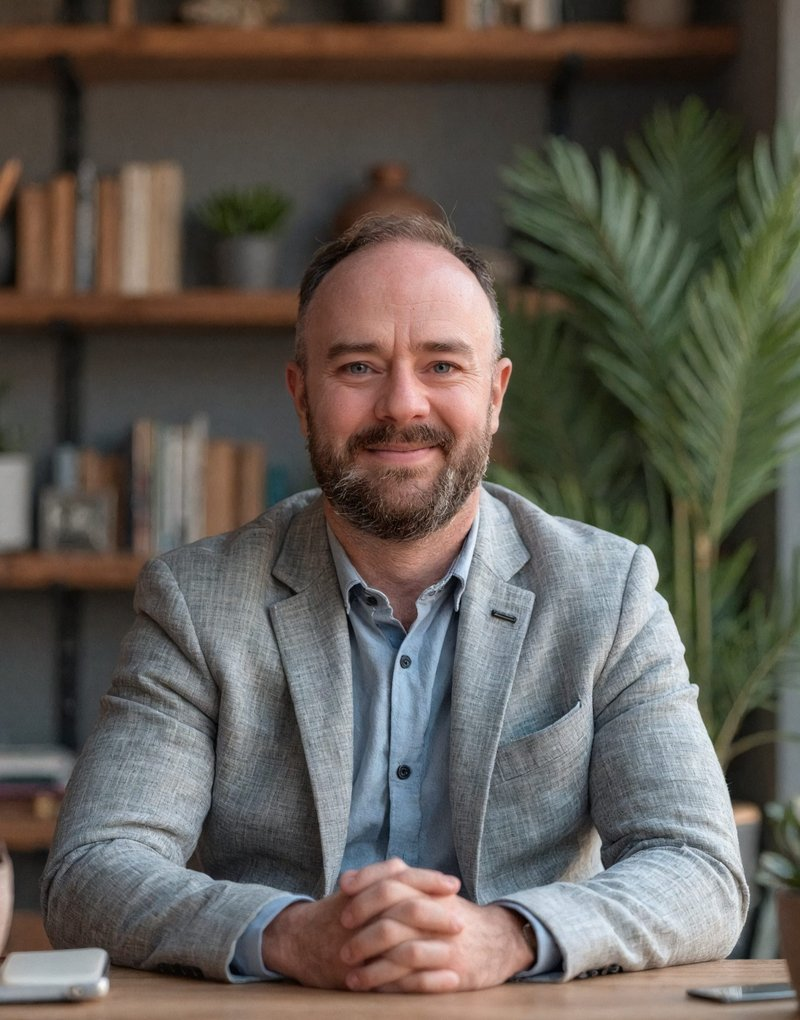
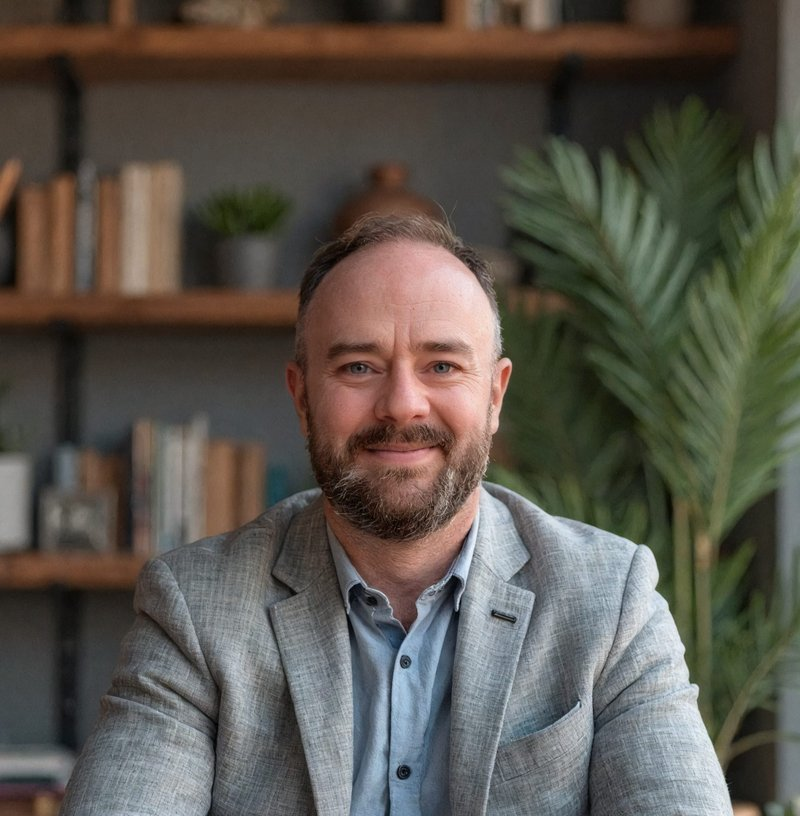
Crop About headshot above the hands
Claude-Session: https://claude.ai/code/session_01EZLeSyAwjskAfbDY8Kx3kn

diff --git a/about.html b/about.html
@@ -28,7 +28,7 @@
   <main>
     <section class="hero about-layout">
       <figure class="about-photo">
-        <img src="assets/headshot.jpg" width="800" height="1020" alt="James Dreiling, founder of Hooman Operations">
+        <img src="assets/headshot.jpg" width="800" height="816" alt="James Dreiling, founder of Hooman Operations">
         <figcaption>AI-generated headshot</figcaption>
       </figure>
       <div class="about-text">
